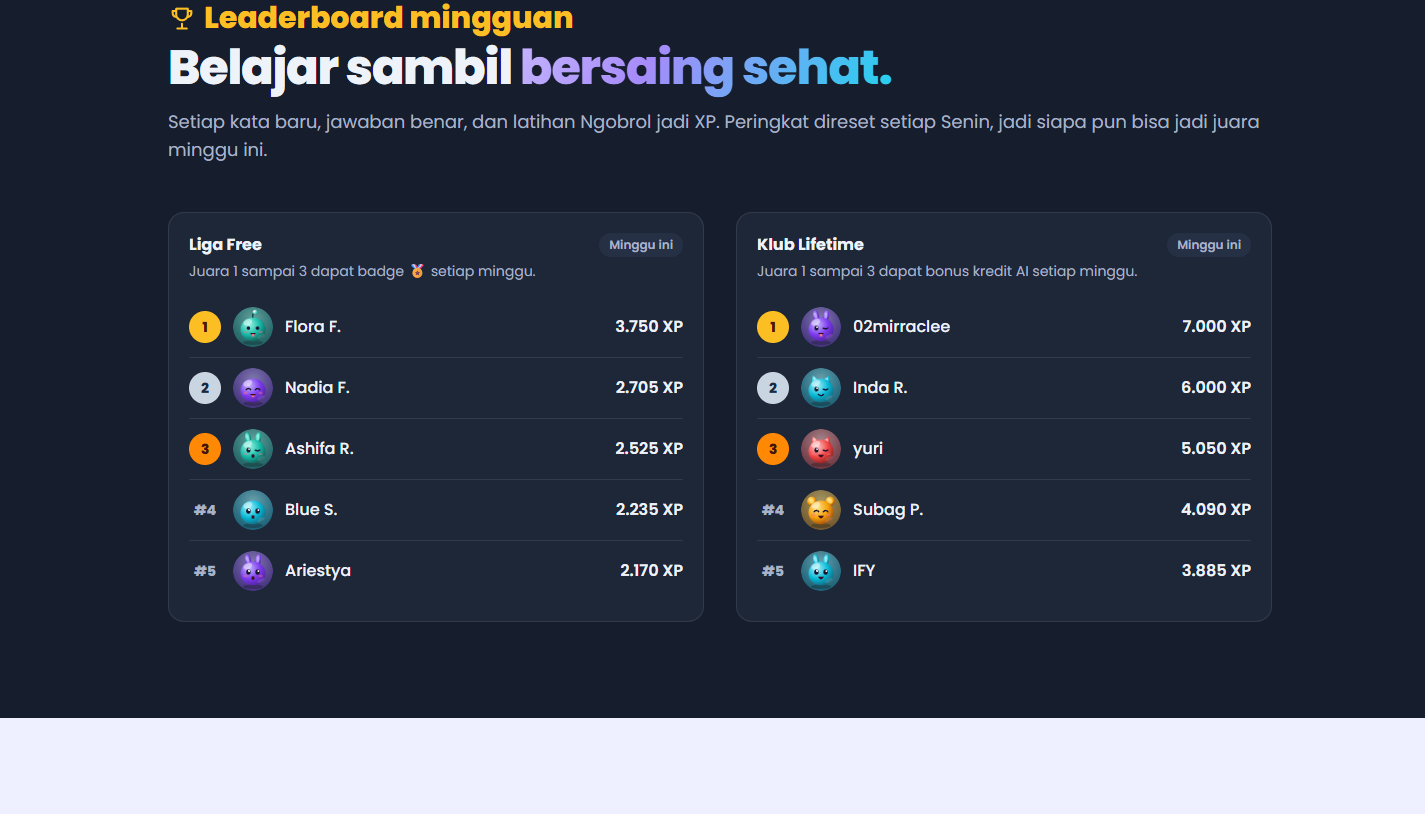
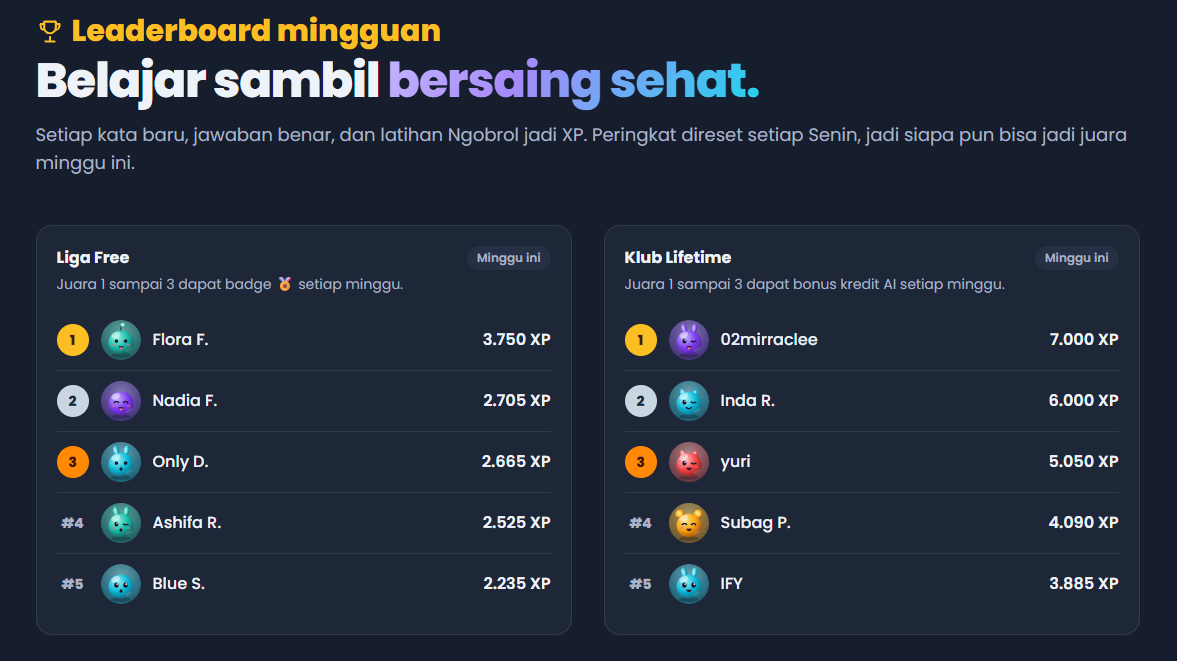
Revise Kata10 slides, contact, footer and closing note
- Kata10 carousel: new leaderboard, Play Zone and AI Labs landing
  captures; closing call-to-action slide removed
- Carousel slides show the whole capture instead of a cropped one
- Experience galleries no longer carry the "Work samples and team" label
- Email icon removed from the social profile row
- Footer navigation links removed
- Contact heading and hero introduction reworded
- Closing quote added above the footer
- Blueprint page: "Back to projects" link removed

diff --git a/src/data/site.ts b/src/data/site.ts
@@ -30,8 +30,8 @@ export const nav = [
 
 export const hero = {
   paragraphs: [
-    'I turn sales, distribution and budget data into dashboards and reports that managers use to decide.',
-    'Three years in commercial planning at Indosat, working in SQL, Power BI and Python, after five years measuring mobile networks in the field.',
+    'I turn commercial performance into data-driven business strategies with dashboards and reports that managers use to decide.',
+    'Three years in commercial planning, working in SQL, Power BI and Python, after five years measuring mobile networks in the field.',
   ],
 };
 
@@ -334,8 +334,7 @@ export const projects: Project[] = [
         { group: 'Landing page', file: 'landing-4-leaderboard.png', alt: 'Landing page section showing the weekly leaderboard' },
         { group: 'Landing page', file: 'landing-5-speaking.png', alt: 'Landing page section on speaking practice' },
         { group: 'Landing page', file: 'landing-6-play-zone.png', alt: 'Landing page section introducing the Play Zone games' },
-        { group: 'Landing page', file: 'landing-7-ai-labs.png', alt: 'Landing page section listing the AI Labs tools' },
-        { group: 'Landing page', file: 'landing-8-cta.png', alt: 'Landing page closing section with the sign-up call to action' },
+        { group: 'Landing page', file: 'landing-7-ai-labs.png', alt: 'Landing page section listing the five AI Labs tools with their credit cost' },
         { group: 'Learn path', file: 'app-belajar-demo.png', alt: 'Belajar, from the product demo: word card for improve with its meaning quiz answered' },
         { group: 'Learn path', file: 'app-review-demo.png', alt: 'Review, from the product demo: nine words ready to review, scheduled automatically, with the four strength stages' },
         { group: 'Learn path', file: 'app-grammar.jpg', alt: 'Grammar: first of ten daily questions, a fill-in on pronouns with four choices and a paid hint' },

diff --git a/src/data/socials.ts b/src/data/socials.ts
@@ -1,7 +1,6 @@
 // Social links. Icon paths come from simple-icons at build time (official
 // marks, CC0). LinkedIn is no longer shipped by simple-icons, so its path is inlined.
 import { siGithub, siGitlab, siX, siInstagram, siThreads, siFacebook, siTiktok, siReddit } from 'simple-icons';
-import { site } from './site';
 
 export interface Social {
   name: string;
@@ -11,14 +10,11 @@ export interface Social {
   color?: string;
 }
 
-const MAIL =
-  'M1.5 8.67v8.58a3 3 0 0 0 3 3h15a3 3 0 0 0 3-3V8.67l-8.928 5.493a3 3 0 0 1-3.144 0L1.5 8.67Zm21-1.762V6.75a3 3 0 0 0-3-3h-15a3 3 0 0 0-3 3v.158l9.714 5.978a1.5 1.5 0 0 0 1.572 0L22.5 6.908Z';
 const LINKEDIN =
   'M20.447 20.452h-3.554v-5.569c0-1.328-.027-3.037-1.852-3.037-1.853 0-2.136 1.445-2.136 2.939v5.667H9.351V9h3.414v1.561h.046c.477-.9 1.637-1.85 3.37-1.85 3.601 0 4.267 2.37 4.267 5.455v6.286zM5.337 7.433c-1.144 0-2.063-.926-2.063-2.065 0-1.138.92-2.063 2.063-2.063 1.14 0 2.064.925 2.064 2.063 0 1.139-.925 2.065-2.064 2.065zm1.782 13.019H3.555V9h3.564v11.452zM22.225 0H1.771C.792 0 0 .774 0 1.729v20.542C0 23.227.792 24 1.771 24h20.451C23.2 24 24 23.227 24 22.271V1.729C24 .774 23.2 0 22.222 0h.003z';
 
 // Professional first, then social.
 export const socials: Social[] = [
-  { name: 'Email', href: `mailto:${site.email}`, path: MAIL, color: 'var(--accent-ink)' },
   { name: 'LinkedIn', href: 'https://www.linkedin.com/in/farisradifana', path: LINKEDIN, color: '#0A66C2' },
   { name: 'GitHub', href: 'https://github.com/farisradifana', path: siGithub.path },
   { name: 'GitLab', href: 'https://gitlab.com/farisradifana', path: siGitlab.path, color: '#FC6D26' },

diff --git a/src/styles/global.css b/src/styles/global.css
@@ -1092,6 +1092,27 @@ form.contact {
   }
 }
 
+/* Closing note above the footer */
+.closing {
+  padding-block: 8px 56px;
+  text-align: center;
+}
+.closing blockquote {
+  margin: 0 auto;
+  max-width: 62ch;
+}
+.closing p {
+  margin: 0;
+  font-family: var(--font-display);
+  font-size: clamp(18px, 2.2vw, 24px);
+  line-height: 1.5;
+  color: var(--text);
+  text-wrap: balance;
+}
+.closing strong {
+  font-weight: 700;
+}
+
 /* Footer */
 .footer {
   padding-block: 32px;
@@ -1269,10 +1290,7 @@ form.contact {
   width: 100%;
   height: 100%;
   border-radius: 4px;
-  object-fit: cover;
-  object-position: top;
-}
-.car-track .tall img {
+  /* The whole capture is always visible, never cropped. */
   object-fit: contain;
   object-position: center;
 }
